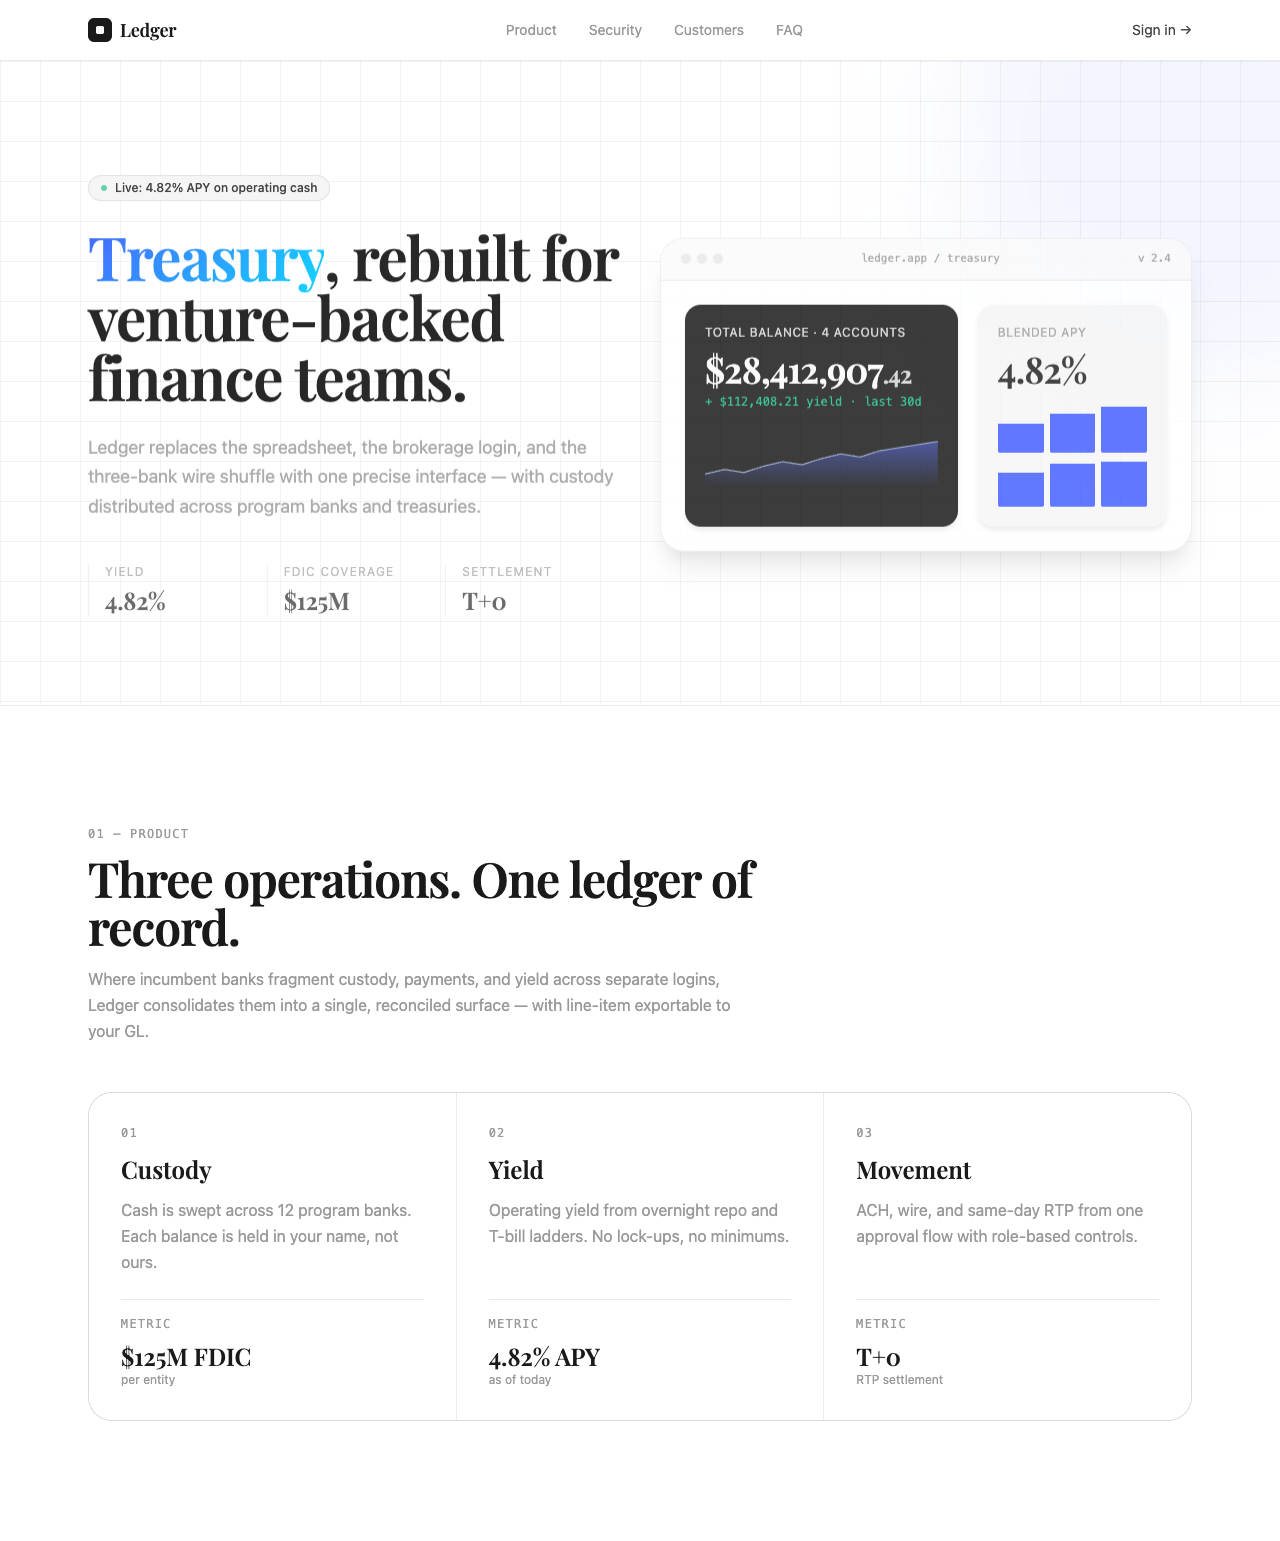
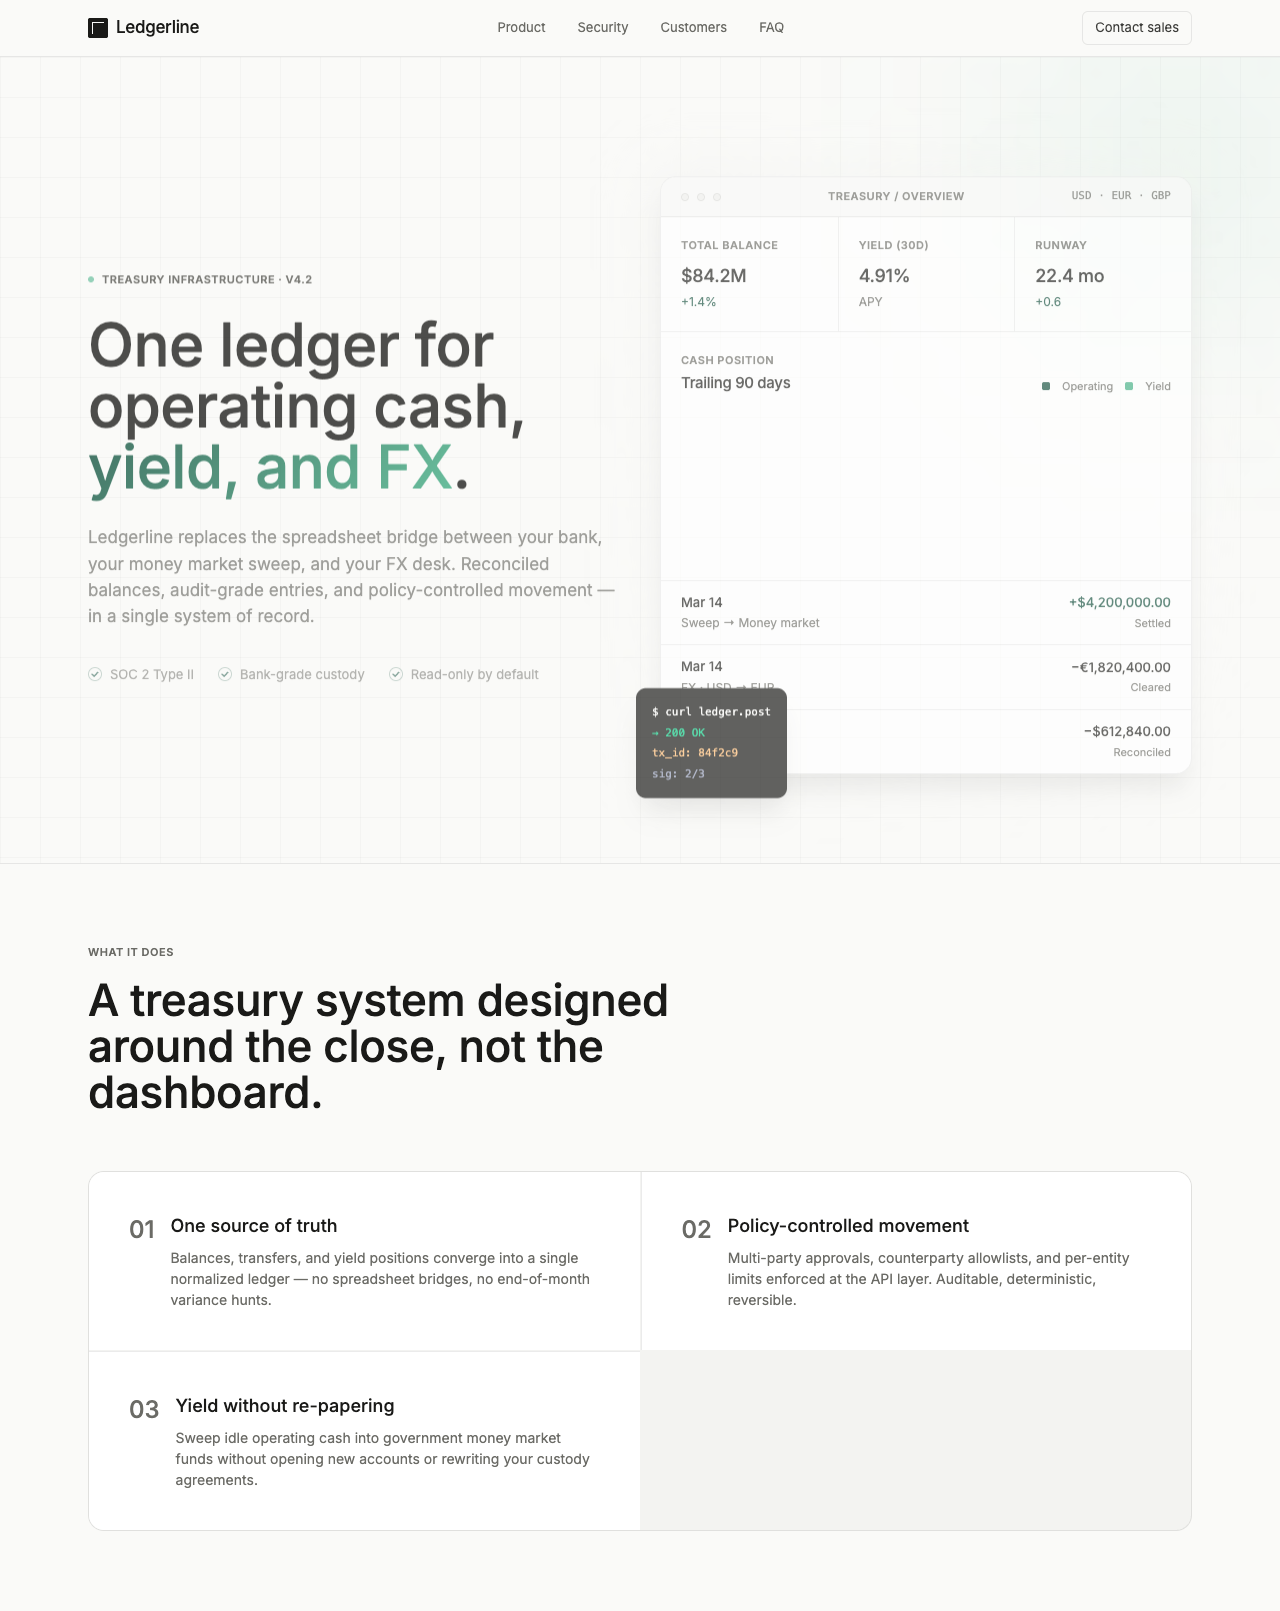
feat: redo B040 Polygon Treasury screenshots

diff --git a/README.md b/README.md
@@ -1415,29 +1415,31 @@ modu
 <details>
 <summary><strong>v0.dev · Baseline</strong> — 1 step</summary>
 
-**Step 1 · Direct Generation** (17365 ms)
+**Step 1 · Direct Generation** (11214 ms)
 ```json
-import React from 'react';
+'use client';
+
+import { ArrowRight, BarChart3, Shield, Zap } from 'lucide-react';
 
 export default function Home() {
   return (
     <div className="min-h-screen bg-slate-950 text-white">
       {/* Navbar */}
-      <nav className="border-b border-slate-800 bg-slate-950/95 backdrop-blur">
-        <div className="mx-auto max-w-7xl px-4 sm:px-6 lg:px-8">
-          <div className="flex h-16 items-center justify-between">
-            <div className="flex items-center gap-2">
-              <div className="h-8 w-8 rounded bg-emerald-500"></div>
-              <span className="text-lg font-semibold">CashFlow</span>
+      <nav className="border-b border-slate-800 bg-slate-950/80 backdrop-blur sticky top-0 z-50">
+        <div className="max-w-7xl mx-auto px-6 py-4 flex items-center justify-between">
+          <div className="flex items-center gap-2">
+            <div className="w-8 h-8 rounded bg-emerald-500 flex items-center justify-center font-bold text-sm">
+              CF
             </div>
-            <div className="hidden md:flex gap-8">
-              <a href="#features" className="text-sm text-slate-300 hover:text-white transition">
-                Features
-              </a>
-              <a href="#security" className="text-sm text-slate-300 hover:text-white transition">
-                Security
-              </a>
-              <a href="#pricing" className="text-sm text-slate-300 hover:text-white trans
+            <span className="font-semibold text-lg">CashFlow</span>
+          </div>
+          <div className="flex items-center gap-8">
+            <a href="#features" className="text-slate-300 hover:text-white transition text-sm">
+              Features
+            </a>
+            <a href="#security" className="text-slate-300 hover:text-white transition text-sm">
+              Security
+            </a
 ```
 
 </details>
@@ -1445,7 +1447,7 @@ export default function Home() {
 <details>
 <summary><strong>SFT only</strong> — 2 steps</summary>
 
-**Step 2 · Classification** (4185 ms)
+**Step 2 · Classification** (1621 ms)
 ```json
 {
   "product_type": "B2B SaaS",
@@ -1457,18 +1459,13 @@ export default function Home() {
 }
 ```
 
-**Step 5 · Code Generation (no CDO strategy)** (108166 ms)
+**Step 5 · Code Generation (no CDO strategy)** (84537 ms)
 ```json
 {
   "files": [
     {
       "path": "src/app/page.tsx",
-      "content": "```json
-{
-  \"files\": [
-    {
-      \"path\": \"src/app/page.tsx\",
-      \"content\": \"export default function Home() {\n  return (\n    <div className=\\"min-h-screen bg-gray-950 text-gray-100\\">\n      {/* Sticky Nav */}\n      <nav className=\\"sticky top-0 z-50 bg-gray-950/90 backdrop-blur border-b border-gray-800\\">\n        <div className=\\"max-w-7xl mx-auto px-6 py-4 flex items-center justify-between\\">\n          <div className=\\"flex items-center gap-2\\">\n            <div className=\\"w-8 h-8 rounded-lg bg-indigo-500 flex items-center justify-center\\">\n              <svg width=\\"18\\" height=\\"18\\" viewBox=\\"0 0 18 18\\" fill=\\"none\\">\n                <path d
+      "content": "```json\n{\n  \"files\": [\n    {\n      \"path\": \"src/app/page.tsx\",\n      \"content\": \"export default function Home() {\\n  return (\\n    <div className=\\\"min-h-screen bg-gray-950 text-gray-100\\\">\\n\\n      {/* Sticky Nav */}\\n      <nav className=\\\"sticky top-0 z-50 bg-gray-950/90 backdrop-blur border-b border-gray-800\\\">\\n        <div className=\\\"max-w-6xl mx-auto px-6 py-4 flex items-center justify-between\\\">\\n          <div className=\\\"flex items-center gap-2\\\">\\n            <div className=\\\"w-7 h-7 rounded-lg bg-indigo-500 flex items-center justify-center\\\">\\n              <span className=\\\"text-white text-xs font-bold\\\">Y</span>\\n            </div>\\n            <span clas
 ```
 
 </details>
@@ -1476,7 +1473,7 @@ export default function Home() {
 <details>
 <summary><strong>AI CDO · Best</strong> — 5 steps</summary>
 
-**Step 2 · Classification** (1164 ms)
+**Step 2 · Classification** (1517 ms)
 ```json
 {
   "product_type": "B2B SaaS",
@@ -1488,14 +1485,14 @@ export default function Home() {
 }
 ```
 
-**Step 3 · CDO Strategy** (5918 ms)
+**Step 3 · CDO Strategy** (6642 ms)
 ```json
 {
   "primary_intent": "signal_legitimacy",
   "key_risks": [
     "low_trust",
-    "unclear_value_prop",
-    "premature_cta"
+    "overpromising",
+    "unclear_value_prop"
   ],
   "strategic_principles": [
     "credibility_over_creativity",
@@ -1509,7 +1506,7 @@ export default function Home() {
   ],
   "strategies": [
     {
-      "name": "Authority-Led Credibility",
+      "name": "Authority-Led Legitimacy",
       "intent": "authority_first",
       "hero_focus": "authority",
       "information_order": [
@@ -1528,53 +1525,46 @@ export default function Home() {
         "increase_proof_density",
         "delay_cta"
       ],
-      "rationale": "Lead with regulatory legitimacy and institutional credibility to address the high trust sensitivity of CFOs evaluating where to place si
+      "rationale": "CFOs custodying significant capital prioritize institutional credibility above all. Leading with regulatory posture and proof reduces per
 ```
 
-**Step 3.5 · Brand Traits** (16142 ms)
+**Step 3.5 · Brand Traits** (17215 ms)
 ```json
 {
   "brand_personality": {
     "primary_traits": [
       "sophisticated",
       "precise",
-      "authoritative"
-    ],
-    "secondary_traits": [
-      "calm",
-      "institutional",
+      "authoritative",
       "data-driven"
     ],
-    "tone_of_voice": "confident-expert",
-    "formality_level": "formal",
-    "energy_level": "composed"
+    "tone": "confident-analytical",
+    "formality": "high",
+    "energy": "calm-deliberate"
   },
   "visual_identity": {
-    "design_archetype": "premium-financial",
-    "aesthetic_direction": "dark-mode-institutional",
-    "visual_complexity": "refined-detailed",
-    "mood": "serious-trustworthy",
-    "inspiration_references": [
-      "Ramp",
-      "Arc",
-      "Brex Premium",
-      "Bloomberg Terminal",
-      "Linear"
-    ]
-  },
-  "color_system": {
-    "palette_type": "dark-premium-monochrome-with-accent",
-    "primary_color": {
-      "hue": "deep-charcoal-near-black",
-      "usage": "primary background, dominant surface",
-      "hex_suggestion": "#0A0B0D"
+    "mode": "dark",
+    "aesthetic": "premium-financial-terminal",
+    "color_palette": {
+      "background": "#0A0B0D",
+      "surface": "#121418",
+      "surface_elevated": "#1A1D23",
+      "border": "#262A31",
+      "border_subtle": "#1F232A",
+      "text_primary": "#F5F7FA",
+      "text_secondary": "#A1A8B3",
+      "text_tertiary": "#6B7280",
+      "accent_primary": "#7FFFB0",
+      "accent_secondary": "#4ADE80",
+      "accent_muted": "#1F3A2A",
+      "data_positive": "#7FFFB0",
+      "data_negative": "#F87171",
+      "data_neutral": "#60A5FA"
     },
-    "secondary_color": {
-      "hue": "elevated-graphite",
-      "usage": "card surfaces, elevated panel
+    "color_strategy": "Near-black canvas with mint-green yield accents to evoke financial terminals and Bloomberg-style precision; green signals yield/growth without being flash
 ```
 
-**Step 4 · UI Intent** (2096 ms)
+**Step 4 · UI Intent** (2147 ms)
 ```json
 {
   "primary_focus": "value_prop",
@@ -1591,43 +1581,17 @@ export default function Home() {
 }
 ```
 
-**Step 5 · Code Generation** (99249 ms)
+**Step 5 · Code Generation** (95543 ms)
 ```json
 {
   "files": [
     {
       "path": "package.json",
-      "content": "{
-  \"name\": \"ledger-treasury\",
-  \"version\": \"0.1.0\",
-  \"private\": true,
-  \"scripts\": {
-    \"dev\": \"next dev\",
-    \"build\": \"next build\",
-    \"start\": \"next start\",
-    \"lint\": \"next lint\"
-  },
-  \"dependencies\": {
-    \"next\": \"14.2.5\",
-    \"react\": \"18.3.1\",
-    \"react-dom\": \"18.3.1\"
-  },
-  \"devDependencies\": {
-    \"@types/node\": \"20.12.7\",
-    \"@types/react\": \"18.3.3\",
-    \"@types/react-dom\": \"18.3.0\",
-    \"autoprefixer\": \"10.4.19\",
-    \"postcss\": \"8.4.38\",
-    \"tailwindcss\": \"3.4.6\",
-    \"typescript\": \"5.4.5\"
-  }
-}
-"
+      "content": "{\n  \"name\": \"clarified-value-prop\",\n  \"version\": \"0.1.0\",\n  \"private\": true,\n  \"scripts\": {\n    \"dev\": \"next dev\",\n    \"build\": \"next build\",\n    \"start\": \"next start\",\n    \"lint\": \"next lint\"\n  },\n  \"dependencies\": {\n    \"next\": \"14.2.5\",\n    \"react\": \"18.3.1\",\n    \"react-dom\": \"18.3.1\"\n  },\n  \"devDependencies\": {\n    \"@types/node\": \"20.11.30\",\n    \"@types/react\": \"18.2.73\",\n    \"@types/react-dom\": \"18.2.22\",\n    \"autoprefixer\": \"10.4.19\",\n    \"postcss\": \"8.4.38\",\n    \"tailwindcss\": \"3.4.4\",\n    \"typescript\": \"5.4.5\"\n  }\n}\n"
     },
     {
       "path": "next.config.js",
-      "content": "/** @type {import('next').NextConfig} */
-const
+      "content": "/** @type {import('next').NextConfig} *
 ```
 
 </details>